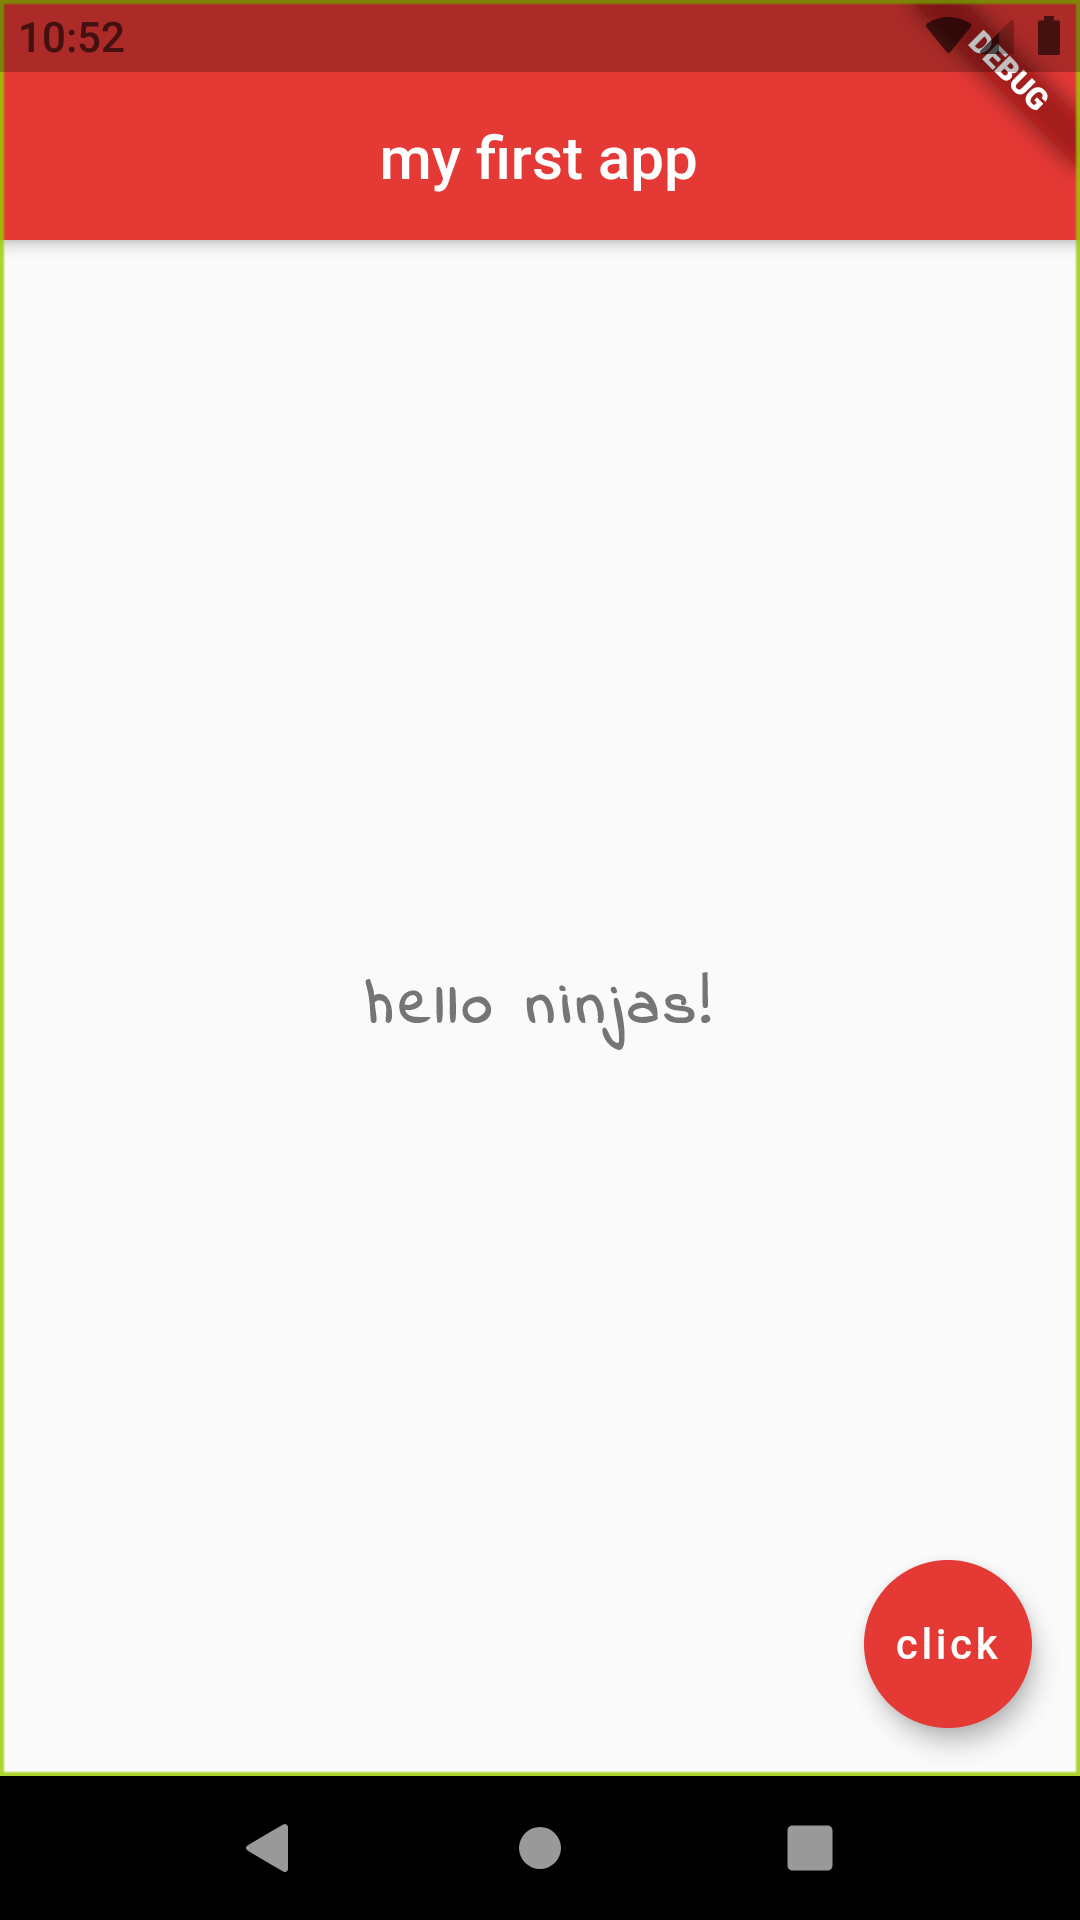
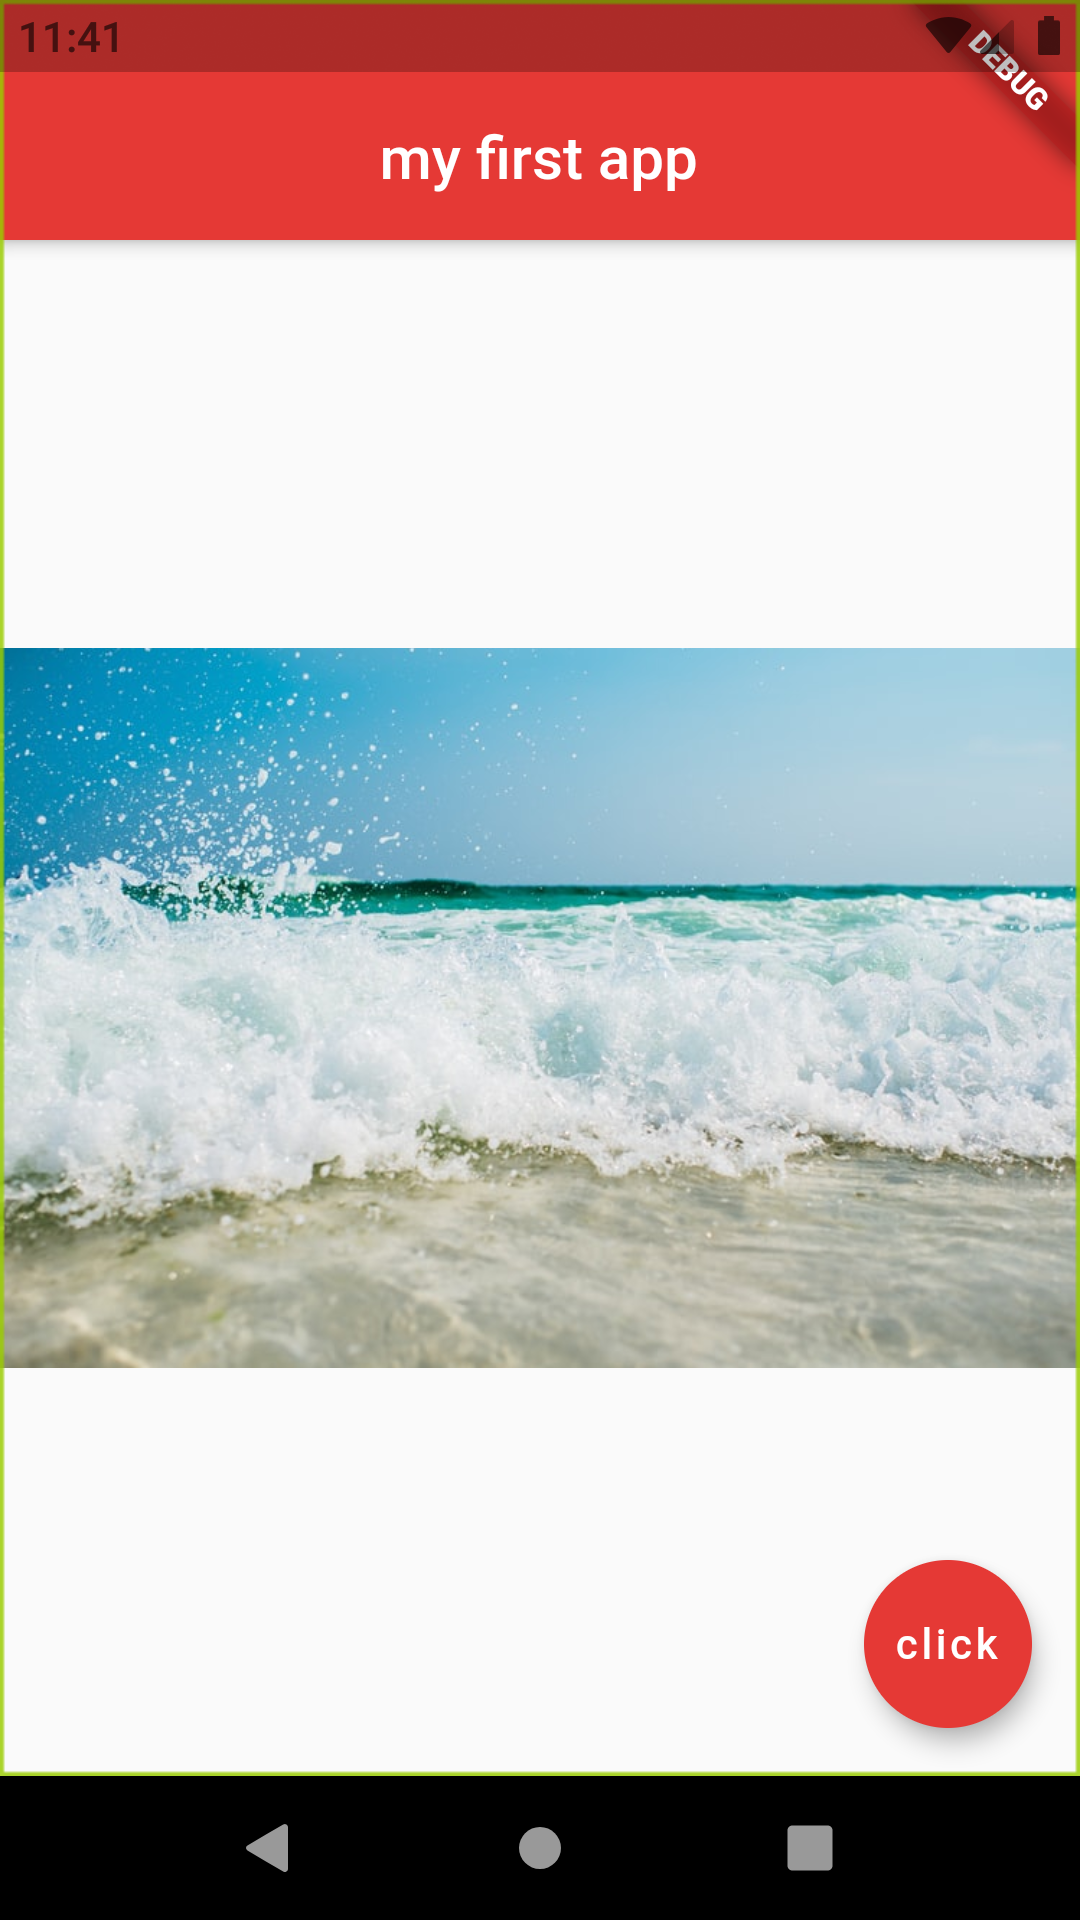
images and assets

diff --git a/lib/main.dart b/lib/main.dart
@@ -12,21 +12,13 @@ class Home extends StatelessWidget {
         backgroundColor: Colors.red[600],
       ),
       body: Center(
-        child: Text(
-          'hello ninjas!',
-          style: TextStyle(
-            fontSize: 20.0,
-            fontWeight: FontWeight.bold,
-            letterSpacing: 2.0,
-            color: Colors.grey[600],
-            fontFamily: 'Indie Flower',
-          ),
-        ),
+        child: Image.asset('assets/image1.jpeg'),
       ),
       floatingActionButton: FloatingActionButton(
-          onPressed: () {},
-          child: Text('click'),
-          backgroundColor: Colors.red[600]),
+        onPressed: () {},
+        child: Text('click'),
+        backgroundColor: Colors.red[600],
+      ),
     );
   }
 }
